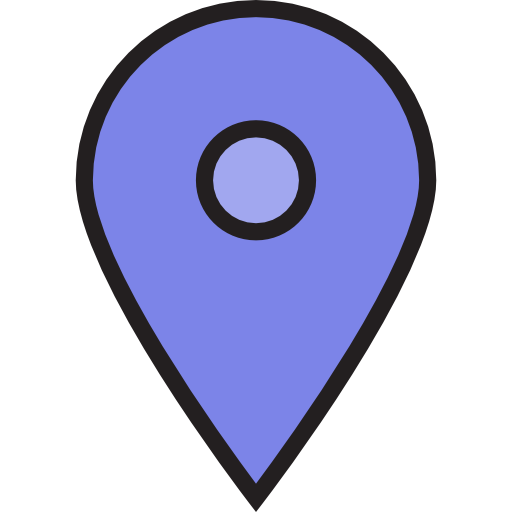
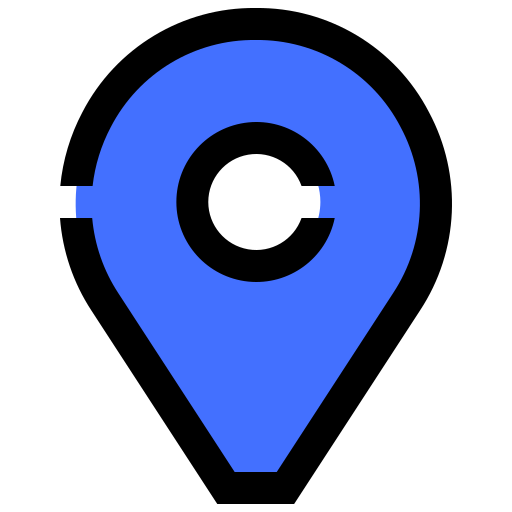
adds protection to user for update account, changes map marker, and updates styling

diff --git a/src/Components/Places/PlacesMap.jsx b/src/Components/Places/PlacesMap.jsx
@@ -1,17 +1,17 @@
 import React, {useState, useEffect} from 'react'
-import ReactMapGL, {FlyToInterpolator, Marker, Popup, GeolocateControl, NavigationControl} from "react-map-gl"
+import ReactMapGL, {FlyToInterpolator, Marker, Popup, GeolocateControl, NavigationControl, FullscreenControl} from "react-map-gl"
 import 'mapbox-gl/dist/mapbox-gl.css'
 import marker from './Marker/marker.png'
 
 const PlacesMap = (props) => {
     const [viewport, setViewport] = useState({
-        width: "70%",
+        width: "80%",
         height: "80vh",
         latitude: 37.09024, // for demonstration purposes will be doing it set on US
         longitude: -95.712891, // for demonstration purposes will be doing it set on US
         // latitude: 0, // but intention of app is to include international trips, so ideally can be 0
         // longitude: 0, // but intention of app is to include international trips, so ideally can be 0
-        zoom: 3
+        zoom: 3.5
     })
     const [selectedPlace, setSelectedPlace] = useState(null)
 
@@ -39,8 +39,8 @@ const PlacesMap = (props) => {
         setSelectedPlace(place)
 
         let viewport = {
-            width: "70%",
-            height: "100vh",
+            width: "80%",
+            height: "80vh",
             longitude: parseFloat(place.longitude),
             latitude: parseFloat(place.latitude),
             zoom: 14,
@@ -55,6 +55,7 @@ const PlacesMap = (props) => {
         if (selectedPlace) {
             return (
                 <Popup 
+                    tipSize={5}
                     latitude={parseFloat(selectedPlace.latitude)} 
                     longitude={parseFloat(selectedPlace.longitude)}
                     onClose={() => {
@@ -63,6 +64,7 @@ const PlacesMap = (props) => {
                 >
                     <div>
                         <h2>{selectedPlace.name}</h2>
+                        <p>{selectedPlace.category.name}</p>
                         <p>{selectedPlace.address}</p>
                     </div>
                 </Popup>
@@ -86,6 +88,8 @@ const PlacesMap = (props) => {
                                 src={marker}
                                 // src="https://www.flaticon.com/svg/static/icons/svg/968/968374.svg" 
                                 alt="place marker"
+                                height={30}
+                                style={{cursor: 'pointer'}}
                             />
                         </button>
                     </Marker>
@@ -98,19 +102,28 @@ const PlacesMap = (props) => {
         <div className="places-map">
             <ReactMapGL
                 {...viewport}
+                mapStyle="mapbox://styles/wlcreate/ckhcf3qzr0wsn19o9w46dg015"
+                // mapStyle="mapbox://styles/mapbox/light-v9"
                 mapboxApiAccessToken={process.env.REACT_APP_MAPBOX_API_KEY}
                 onViewportChange={(viewport) => setViewport(viewport)}
                 transitionInterpolator={new FlyToInterpolator({speed: 1.2})}
             >
-                {/* displays the lat, long & zoom at top */}
+                {/* displays the lat, long & zoom at top -> .toFixed to limit the numbers after decimal */}
                 <div className="sidebarStyle">Longitude: {viewport.longitude.toFixed(4)} | Latitude: {viewport.latitude.toFixed(4)} | Zoom: {viewport.zoom.toFixed(0)}</div>
                 {/* displays control for the map on the right side of the map */}
                 <div style={{position: 'absolute', right: 0}}>
-                    <NavigationControl />
-                    <GeolocateControl 
-                        positionOptions={{enableHighAccuracy: true}}
-                        // trackUserLocation={true} // this is only if I want to show the user moving around
-                    />
+                    <div style={{padding: '5px'}}>
+                        <GeolocateControl 
+                            positionOptions={{enableHighAccuracy: true}}
+                            // trackUserLocation={true} // this is only if I want to show the user moving around
+                        />
+                    </div>
+                    <div style={{padding: '5px'}}>
+                        <FullscreenControl />
+                    </div>
+                    <div style={{padding: '5px'}}>
+                        <NavigationControl />
+                    </div>
                 </div>
                 
                 {showPlacesMarkers()} 

diff --git a/src/Components/Account/UpdateAccountForm.jsx b/src/Components/Account/UpdateAccountForm.jsx
@@ -52,35 +52,35 @@ class UpdateAccountForm extends React.Component{
                 <h1>Update Your Account</h1>
                 <form onSubmit={this.handleUpdate}>
                     <label htmlFor="first_name">First name</label>
-                    <input type="text" id="update-account-input"
+                    <input type="text" className="update-account-input"
                         name="first_name"
                         value={first_name}
                         onChange={this.handleChange}
                     />
                     <br></br>
                     <label htmlFor="last_name">Last name</label>
-                    <input type="text" id="update-account-input"
+                    <input type="text" className="update-account-input"
                         name="last_name"
                         value={last_name}
                         onChange={this.handleChange}
                     />
                     <br></br>
                     <label htmlFor="username">username</label>
-                    <input type="text" id="update-account-input"
+                    <input type="text" className="update-account-input"
                         name="username"
                         value={username}
                         onChange={this.handleChange}
                     />
                     <br></br>
                     <label htmlFor="password">Password</label>
-                    <input type="" id="update-account-input"
+                    <input type="" className="update-account-input"
                         name="password"
                         value={this.state.password}
                         onChange={this.handleChange}
                     />
                     <br></br>
                     <label htmlFor="confirm_password">Confirm Password</label>
-                    <input type="password" id="update-account-input"
+                    <input type="password" className="update-account-input"
                         name="confirm_password"
                         value={this.state.confirm_password}
                         onChange={this.handleChange}

diff --git a/src/index.css b/src/index.css
@@ -393,7 +393,7 @@ img.animated-gif{
   margin-top: 20px;
   text-align: left;
   background-color: azure;
-  height: 210px; 
+  height: 225px; 
   width: 700px;
   border-radius: 20px;
   /* padding: 10px; */
@@ -421,10 +421,11 @@ img.animated-gif{
 /* Map */
 
 .places-map {
-  /* display: block;
-  margin-left: auto;
-  margin-right: auto; */
-  margin: auto;
+  position: relative;
+  display: block;
+  margin-left: 150px;
+  margin-right: auto;
+  /* margin: auto; */
   /* margin-left: 250px; */
 }
 
@@ -606,13 +607,13 @@ img.animated-gif{
 }
 
 #reflection-card-img {
-  max-width: 800px;
+  max-width: 765px;
 }
 
 .reflection-card {
   margin-left: auto;
   margin-right: auto;
-  min-width: 800px;
+  max-width: 800px;
 }
 
 #reflection-card-text {
@@ -628,7 +629,7 @@ img.animated-gif{
   display: inline-block;
   cursor: pointer;
   float: left;
-  margin-right: 135px;
+  margin-right: 100px;
 }
 
 #media-upload-submit {
@@ -643,6 +644,7 @@ img.animated-gif{
   display: block;
   margin-left: auto;
   margin-right: auto;
+  margin-bottom: 260px;
   margin-top: 75px;
   text-align: center;
   background-color: azure;
@@ -657,6 +659,7 @@ img.animated-gif{
   margin-left: auto;
   margin-right: auto;
   margin-top: 75px;
+  margin-bottom: 200px;
   text-align: center;
   background-color: azure;
   height: 420px; 
@@ -670,7 +673,7 @@ img.animated-gif{
   margin-bottom: 10px;
 }
 
-#update-account-input {
+.update-account-input {
   border-radius: 5px;
   outline: none;
   margin: 8px;

diff --git a/src/App.js b/src/App.js
@@ -55,6 +55,15 @@ class App extends React.Component{
     }
   }
 
+  renderUpdateAccountForm = () => {
+    if (this.props.submit_password === true) {
+      return <UpdateAccountForm />
+    } else {
+      alert("You are not authorized to edit this account")
+      return <Redirect to="/account" />
+    }
+  }
+
   render(){
     return (
       <div className="App">
@@ -71,7 +80,8 @@ class App extends React.Component{
           <Route path="/trips/:id/places/:id/reflections" exact render={this.renderReflections}/>
           {/* <Route path="/trips/:id/places/:id/reflections" exact component={ReflectionsContainer}/> */}
           <Route path="/account" exact component={AccountPage}/>
-          <Route path="/account/edit" exact component={UpdateAccountForm}/>
+          <Route path="/account/edit" exact render={this.renderUpdateAccountForm}/>
+          {/* <Route path="/account/edit" exact component={UpdateAccountForm}/> */}
           <Route component={NotFoundPage} />
           {/* <Route render={ () => <p>Page not Found</p> } /> */}
         </Switch>
@@ -83,7 +93,8 @@ class App extends React.Component{
 
 let mapStateToProps = (globalState) => {
   return {
-      token: globalState.user.token
+      token: globalState.user.token,
+      submit_password: globalState.user.submit_password 
   }
 }
 

diff --git a/src/Components/Account/PasswordModal.jsx b/src/Components/Account/PasswordModal.jsx
@@ -30,6 +30,7 @@ function PasswordModal(props) {
             if(response.error){
                 alert(response.error)
             } else {
+                props.submitPassword()
                 props.history.push("/account/edit")
             }
         })
@@ -73,4 +74,17 @@ let mapStateToProps = (globalState) => {
     }
 }
 
-export default connect(mapStateToProps)(withRouter(PasswordModal))
+// Action Creator
+let submitPassword = (password) => {
+    return {
+        type: "SUBMITTED_PASSWORD",
+        payload: password
+    }
+}
+
+// sending information
+let mapDispatchToProps = {
+    submitPassword: submitPassword
+}
+
+export default connect(mapStateToProps, mapDispatchToProps)(withRouter(PasswordModal))

diff --git a/src/Components/Reflections/UpdateReflectionForm.jsx b/src/Components/Reflections/UpdateReflectionForm.jsx
@@ -55,7 +55,8 @@ class UpdateReflectionForm extends React.Component{
             <div id="edit-reflection">
                 <h2>Edit {this.props.reflection.nice_timestamp}!</h2>
                 <form onSubmit={this.handleUpdateReflection}>
-                    <label htmlFor="date_visited">Date Visited</label>
+                    {/* <label htmlFor="date_visited">Date Visited</label> */}
+                    <label htmlFor="date_visited">Date</label>
                     <input id="reflection-date" type="date"
                         name="date_visited"
                         value={date_visited}

diff --git a/src/index.js b/src/index.js
@@ -39,7 +39,8 @@ let initialStateOfUserReducer = {
   chosen_trip: {},
   places: [],
   chosen_place: {},
-  reflections: []
+  reflections: [],
+  submit_password: false
 }
 
 let userReducer = (state = initialStateOfUserReducer, action) => {
@@ -157,6 +158,11 @@ let userReducer = (state = initialStateOfUserReducer, action) => {
         ...state,
         trips: action.payload.user.trips,
         reflections: copyOfStateReflections
+      }
+    case "SUBMITTED_PASSWORD":
+      return {
+        ...state,
+        submit_password: true
       }
     default:
       return state

diff --git a/src/Components/Reflections/AddReflectionForm.jsx b/src/Components/Reflections/AddReflectionForm.jsx
@@ -52,7 +52,8 @@ class AddReflectionForm extends React.Component{
             <div className="add-reflection">
                 <h2>Add a Reflection</h2>
                 <form onSubmit={this.handleAddReflection}>
-                    <label htmlFor="date_visited">Date Visited</label>
+                    {/* <label htmlFor="date_visited">Date Visited</label> */}
+                    <label htmlFor="date_visited">Date</label>
                     <input id="reflection-date" type="date"
                         name="date_visited"
                         value={date_visited}
